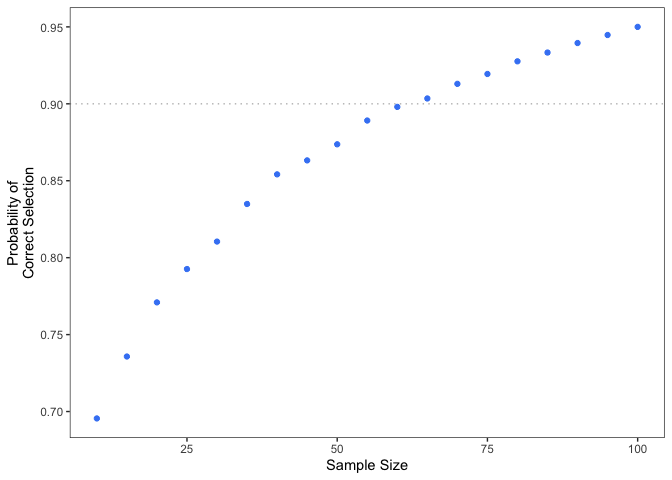
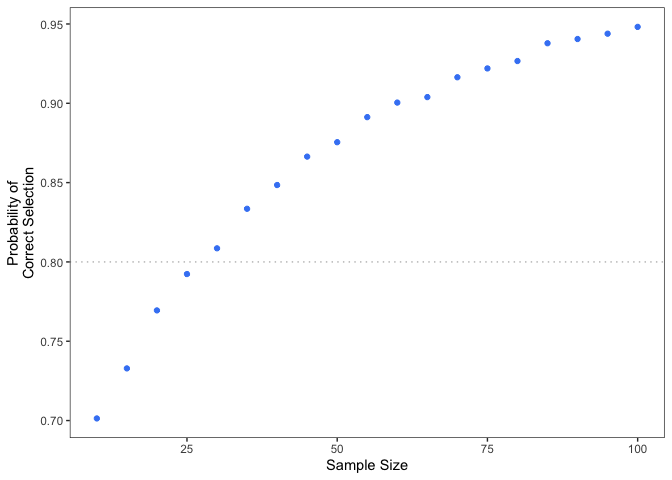
README

diff --git a/PracticalEquiDesign/README.md b/PracticalEquiDesign/README.md
@@ -1,6 +1,6 @@
 # Practical Equivalence Design
 
-Zachary R. McCaw <br>
+Zachary McCaw <br>
 Updated: 2021-07-22
 
 
@@ -24,30 +24,30 @@ devtools::install_github(repo = 'zrmacc/Practical-Equivalence/PracticalEquiDesig
 
 
 ## Examples
-Sample size calculation for a median survival time of 6 months in the reference arm and 8 months in the reference arm, with an estimated censoring rate of 20% and a 90% chance of selecting the more-effective treatment.
+Sample size calculation for a median survival time of 6 months in the reference arm and 8 months in the treatment arm, with an estimated censoring rate of 20% and a 80% chance of selecting the more-effective treatment.
 
 
 ```r
-set.seed(102)
+set.seed(101)
 library(PracticalEquiDesign)
 n <- SampleSize(
   med1 = 6,
   med2 = 8,
   cens_prop = 0.2,
-  target_prob = 0.9
+  target_prob = 0.8
 )
 sprintf("Sample size: %d.", n)
 ```
 
 ```
-## [1] "Sample size: 60."
+## [1] "Sample size: 26."
 ```
 
 Probability of selecting the more-effective treatment at the recommended sample size.
 
 
 ```r
-set.seed(102)
+set.seed(101)
 prob <- EquiProb(
   n = n,
   med1 = 6,
@@ -58,14 +58,14 @@ sprintf("Probability of selecting the more-effective treatment: %.3f.", prob)
 ```
 
 ```
-## [1] "Probability of selecting the more-effective treatment: 0.900."
+## [1] "Probability of selecting the more-effective treatment: 0.804."
 ```
 
 Selection probability as a function of the sample size:
 
 
 ```r
-set.seed(102)
+set.seed(101)
 q <- ProbCurve(
   med1 = 6,
   med2 = 8,
@@ -73,9 +73,28 @@ q <- ProbCurve(
   delta = 5,
   min_n = 10,
   max_n = 100,
-  target_prob = 0.9
+  target_prob = 0.8
 )
 show(q)
 ```
 
-![](README_files/figure-html/unnamed-chunk-4-1.png)<!-- -->
+<img src="README_files/figure-html/unnamed-chunk-4-1.png" style="display: block; margin: auto;" />
+
+By default, the margin of equivalence is zero. The following example specifies a practical equivalence margin of 1 month. 
+
+
+```r
+set.seed(101)
+n <- SampleSize(
+  med1 = 6,
+  med2 = 8,
+  cens_prop = 0.2,
+  margin = 1,
+  target_prob = 0.8
+)
+sprintf("Sample size: %d.", n)
+```
+
+```
+## [1] "Sample size: 33."
+```
